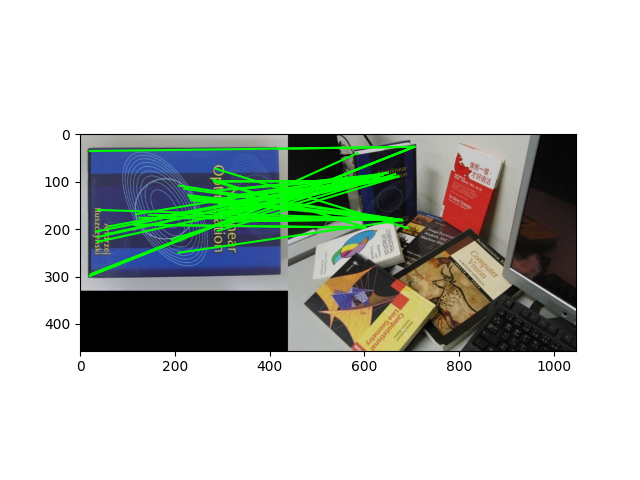
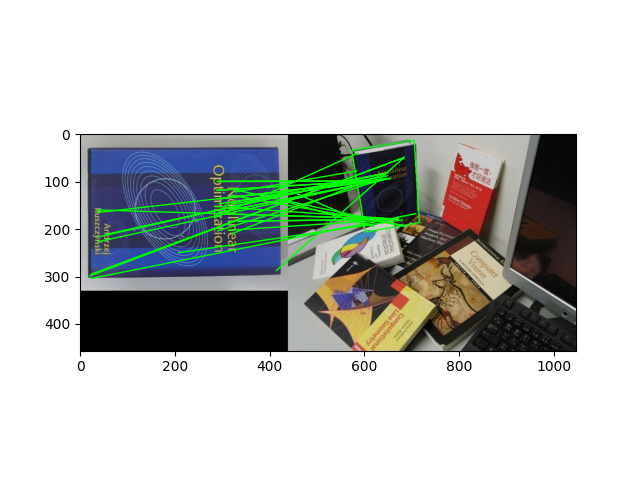
2022/12/02 20:00

Changed region(s): [[0.125, 0.2812, 0.6562, 0.5938], [0.1562, 0.3125, 0.25, 0.3438], [0.4375, 0.5312, 0.4688, 0.5625]]

diff --git a/Homework3/HW3-1 ok.py b/Homework3/HW3-1 ok.py
@@ -139,12 +139,13 @@ def ransac_homography_transformationgraphy(image1, image2, obj_bbox, num_iterati
         
         # homography
         for i in range(sample_length):
-            idx = 2 * i
 
-            A[idx,3:6]  = -pts[i]
-            A[idx,6:]   = pts[i] * pts_prime[i,1]
-            A[idx+1,:3] = pts[i]
-            A[idx+1,6:] = -pts[i] * pts_prime[i,0]
+
+            A[i*2,3:6]  = -pts[i]
+            A[i*2,6:]   = pts[i] * pts_prime[i,1]
+            A[i*2+1,:3] = pts[i]
+            A[i*2+1,6:] = -pts[i] * pts_prime[i,0]
+
         
         u,s,vh = np.linalg.svd(A)
         H = vh[-1].reshape(3,3)
@@ -171,35 +172,39 @@ def ransac_homography_transformationgraphy(image1, image2, obj_bbox, num_iterati
 
     for m in matches:
         ind1, ind2 = m
-        plt.plot([kpArray1[ind1,0], img1.shape[1]+kpArray2[ind2,0]], [kpArray1[ind1,1], kpArray2[ind2,1]],  color='lime')
+        plt.plot([kpArray1[ind1,0], img1.shape[1]+kpArray2[ind2,0]], [kpArray1[ind1,1], kpArray2[ind2,1]],  color='lime', linewidth=1.0)
     plt.savefig('plot.png') 
     plt.show()
        
     # return inliers, H_best
 
-def comput_obj_bbox(image):
+def comput_obj_bbox(image, points):
 
     image = cv2.imread(image)
-    obj_bbox1 = [36, 250, 313,455]
-    obj_bbox2 = [216, 195, 506, 448]
-    obj_bbox3 = [134, 13, 277, 207]
 
-    # min_x1, min_y1, max_x1, max_y1 = obj_bbox1
-    # min_x2, min_y2, max_x2, max_y2 = obj_bbox2
-    # min_x3, min_y3, max_x3, max_y3 = obj_bbox3
-    points1 = [[150,249], [315,372], [243, 454], [140, 455], [37, 356]]
-    print(points1[0][0])
+    img = image.copy()
 
 
+    x = []; y = []
+    for i in range(len(points)):
+        x.append(points[i, 0])
+        y.append(points[i, 1])
+    
+    x_min = min(x); x_max = max(x)
+    y_min = min(y); y_max = max(y)
+
+    obj_bbox = [x_min, y_min, x_max, y_max]
+
+    cv2.polylines(img,[points],True,(0,255,0),2)
 
 
-    pts1 = np.array([[150,249], [315,372], [243, 454], [140, 455], [37, 356]])   # 產生座標陣列
-    cv2.polylines(image,[pts1],True,(0,0,255),1)   # 繪製多邊形
-    cv2.imshow('oxxostudio', image)
+
+    cv2.imwrite("img.jpg" , img)
     cv2.waitKey(0)
     cv2.destroyAllWindows()
 
-    return obj_bbox1, obj_bbox2, obj_bbox3
+    name = "img.jpg"
+    return name, obj_bbox 
 
 if __name__ == '__main__': 
     
@@ -208,19 +213,27 @@ if __name__ == '__main__':
     image2 = "1-book2.jpg"
     image3 = "1-book3.jpg"
 
-    obj_bbox = comput_obj_bbox(image)
+    
 
 
 
+    pts1 = np.array([[146,247], [321,361], [248, 456], [138, 455], [34, 357]])
+    pts2 = np.array([[387,197], [510, 312], [334, 455], [219, 302]])
+    pts3 = np.array([[134,34], [266,13], [277, 186], [163, 206]])
 
 
     sift_detection_and_matching(image1, image, point=1000, threshold=0.6)
     sift_detection_and_matching(image2, image, point=1000, threshold=0.4)
     sift_detection_and_matching(image3, image, point=1000, threshold=0.8)
 
-    ransac_homography_transformationgraphy(image1, image, obj_bbox[0], num_iterations = 1000, threshold = 0.6)
-    ransac_homography_transformationgraphy(image2, image, obj_bbox[1], num_iterations = 1000, threshold = 0.4)
-    ransac_homography_transformationgraphy(image3, image, obj_bbox[2], num_iterations = 1000, threshold = 0.8)
+    img1, obj_bbox1 = comput_obj_bbox(image, pts1)
+    ransac_homography_transformationgraphy(image1, img1, obj_bbox1, num_iterations = 1000, threshold = 0.6)
+
+    img2, obj_bbox2 = comput_obj_bbox(image, pts2)
+    ransac_homography_transformationgraphy(image2, img2, obj_bbox2, num_iterations = 1000, threshold = 0.4)
+
+    img3, obj_bbox3 = comput_obj_bbox(image, pts3)
+    ransac_homography_transformationgraphy(image3, img3, obj_bbox3, num_iterations = 1000, threshold = 0.8)
 
 
     
